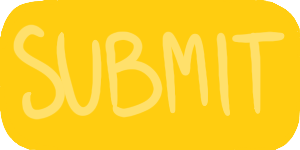
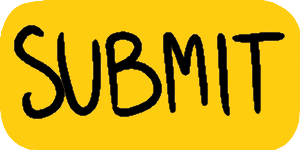
Add pickup script

Changed region(s): [[0.03, 0.16, 0.96, 0.8]]

diff --git a/gmtk_jam_2025/src/application.cpp b/gmtk_jam_2025/src/application.cpp
@@ -1,3 +1,4 @@
+#include "components/generic.h"
 #include "components/input.h"
 #include "components/sprite.h"
 #include "core/entity.h"
@@ -21,9 +22,17 @@ struct DiskDragScript : public Script<DiskDragScript> {
 		entity.GetPosition() = mouse + entity.Get<Draggable>().offset;
 	}
 
+	virtual void OnPickup([[maybe_unused]] Entity dropzone) {
+		PTGN_LOG("Pickup");
+	}
+
 	virtual void OnDrop([[maybe_unused]] Entity dropzone) {
 		entity.GetPosition() = dropzone.GetAbsolutePosition();
 	}
+};
+
+struct DiskIndex : public ArithmeticComponent<int> {
+	using ArithmeticComponent::ArithmeticComponent;
 };
 
 Entity CreateTablet(Scene& scene) {
@@ -34,12 +43,15 @@ Entity CreateTablet(Scene& scene) {
 	return entity;
 }
 
-Entity CreateDisk(Scene& scene, const V2_float& position, const TextureHandle& texture_handle) {
+Entity CreateDisk(
+	Scene& scene, const V2_float& position, const TextureHandle& texture_handle, int index
+) {
 	Sprite entity = CreateSprite(scene, texture_handle);
 	entity.SetPosition(position);
 	entity.Enable();
 	entity.SetInteractive();
 	// entity.Hide();
+	entity.Add<DiskIndex>(index);
 	entity.Add<Draggable>();
 	entity.Add<InteractiveCircles>(entity.GetDisplaySize().x / 2.0f);
 	entity.AddScript<DiskDragScript>();
@@ -80,10 +92,17 @@ public:
 		CreateDiskEntry(*this, V2_float{ 395, 300 }, tablet);
 		CreateDiskEntry(*this, V2_float{ 255, 479 }, tablet);
 
-		disks.push_back(CreateDisk(*this, V2_float{ 300, 300 }, "baby"));
-		disks.push_back(CreateDisk(*this, V2_float{ 400, 400 }, "young"));
-		disks.push_back(CreateDisk(*this, V2_float{ 500, 500 }, "old"));
-		disks.push_back(CreateDisk(*this, V2_float{ 600, 600 }, "dead"));
+		disks.push_back(CreateDisk(*this, V2_float{ 300, 300 }, "baby", 0));
+		disks.push_back(CreateDisk(*this, V2_float{ 400, 400 }, "young", 1));
+		disks.push_back(CreateDisk(*this, V2_float{ 500, 500 }, "old", 2));
+		disks.push_back(CreateDisk(*this, V2_float{ 600, 600 }, "dead", 3));
+
+		CreateButton(*this)
+			.SetTextureKey("submit")
+			.SetButtonTint(color::Gray)
+			.SetButtonTint(color::DarkGray, ButtonState::Pressed)
+			.OnActivate([]() { PTGN_LOG("Submit"); })
+			.SetPosition(resolution / 2.0f + V2_float{ 450, 0 });
 	}
 };
 
